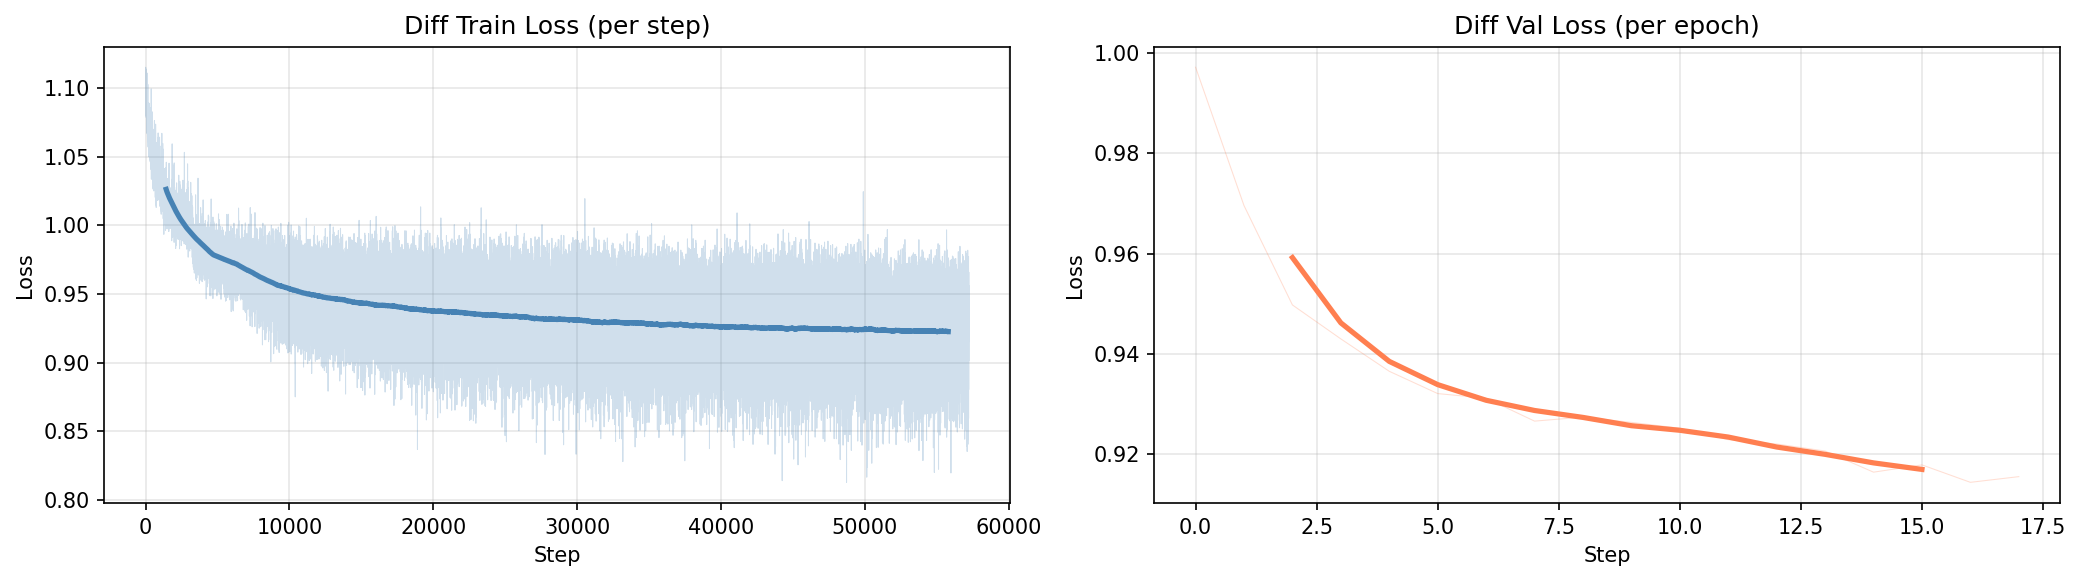
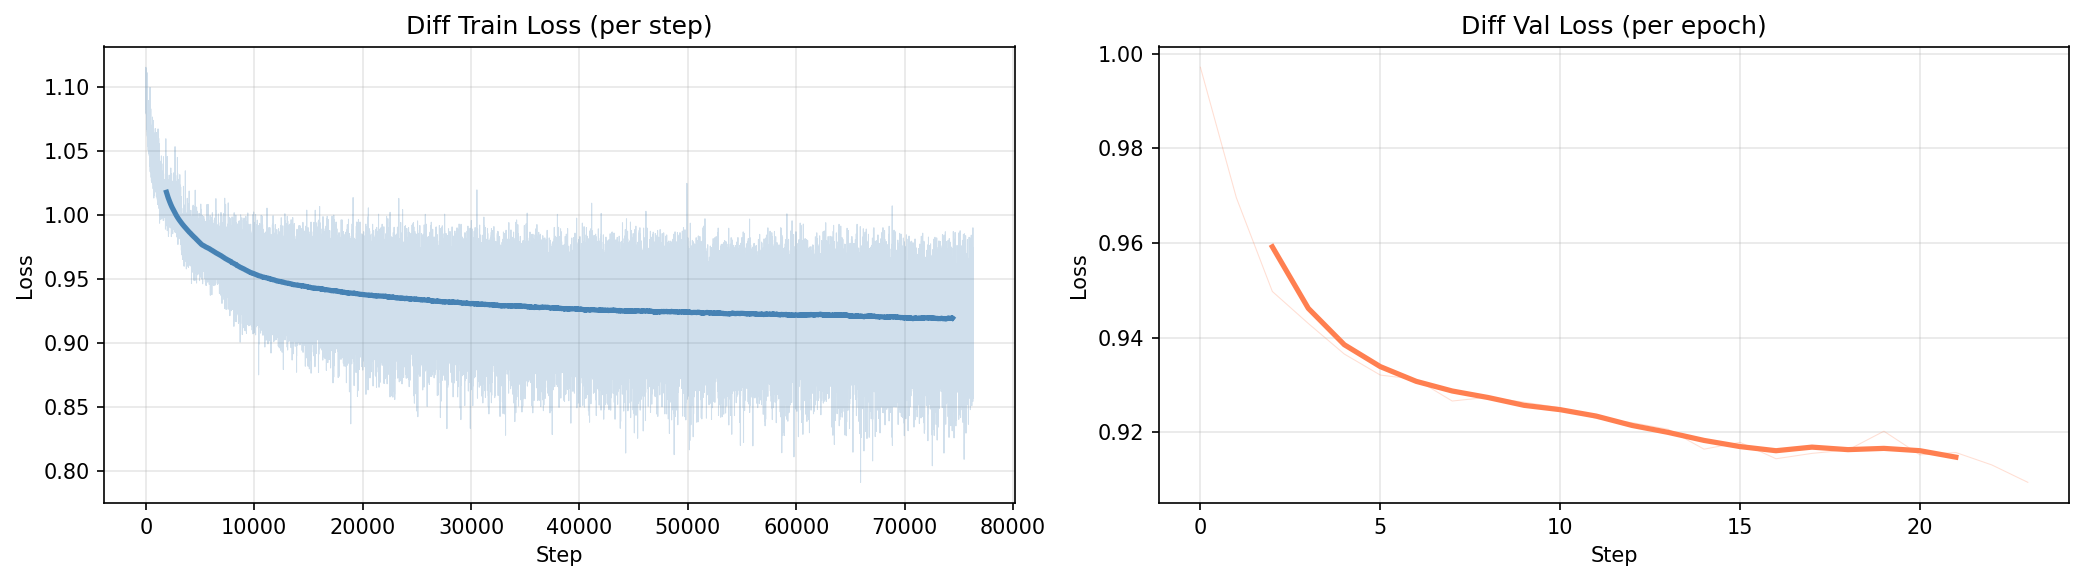
Add publishable points documentation and latest training plots

diff --git a/docs/PUBLISHABLE_POINTS.md b/docs/PUBLISHABLE_POINTS.md
@@ -1,0 +1,226 @@
+# Publishable Points: Latent CorrDiff for Atmospheric Downscaling
+
+## Core Innovation
+
+This work introduces **Latent CorrDiff** — the first model to combine CorrDiff's residual corrective decomposition (Mardani et al. 2025) with latent diffusion (Rombach et al. 2022) for atmospheric downscaling. The model performs ERA5 (0.25deg, ~27km) to CONUS404 (4km) downscaling over the contiguous United States using a fully learned three-stage pipeline with no physics-based model in the loop.
+
+The key idea: rather than running an expensive diffusion process in full pixel space (256x256 or larger), we compress the DRN residual field into a 64x64 latent space via a VAE, then run the diffusion model in that compressed space. This retains the variance reduction benefit of residual learning (CorrDiff) while adding the compute efficiency of latent-space generation (LDM).
+
+---
+
+## Detailed Comparison with Prior Work
+
+### vs. CorrDiff (Mardani et al., Communications Earth & Environment, 2025)
+
+CorrDiff introduced the two-step corrective decomposition x = E[x|y] + r, where a UNet regression model predicts the conditional mean and a diffusion model generates the stochastic residual. Our model preserves this decomposition but makes three key changes:
+
+1. **Latent-space diffusion instead of pixel-space diffusion.** CorrDiff runs its EDM diffusion model on 448x448 pixel-space residuals. We insert a VAE between the regression and diffusion stages, compressing residuals from 256x256 to 64x64 latent codes. The diffusion model then operates entirely in this latent space. This reduces the spatial dimensionality by 16x per denoising step (64x64 = 4,096 vs 448x448 = 200,704 spatial positions). The variance reduction property of the residual decomposition (var(r) <= var(x), proven by Mardani et al.) is preserved — the VAE simply provides a more compact representation of r.
+
+2. **Domain scale.** CorrDiff covers Taiwan (~36x448 input to 448x448 output, 2km resolution). We cover the contiguous United States (1015x1367 full grid, 4km resolution), a domain roughly 50x larger in area. Our patch-based training (256x256 patches from 87 valid land origins) enables scaling to this domain while maintaining training efficiency.
+
+3. **Data regime.** CorrDiff trains on 3 years (2018-2020) of CWA Taiwan WRF data. We train on 35 years (1980-2014) of CONUS404 data (WRF dynamical downscaling of ERA5 by NCAR), with 3 years validation (2015-2017) and 3 years test (2018-2020). The longer training period provides more diverse weather conditions and seasonal cycles.
+
+**What we keep from CorrDiff:**
+- EDM (Elucidated Diffusion Model) noise schedule with variance-exploding formulation
+- Karras et al. (2022) preconditioning (c_skip, c_out, c_in, c_noise)
+- Heun's 2nd-order ODE sampler for inference
+- Classifier-free guidance (p_uncond=0.1 training, g=0.2 inference)
+- UNet backbone with FiLM time conditioning
+- Concatenation-based spatial conditioning
+
+### vs. R2-D2 (Lopez-Gomez et al., PNAS, 2025)
+
+R2-D2 uses a two-stage dynamical-generative framework where WRF first downscales ESM output from ~100km to 45km, then a diffusion model refines from 45km to 9km. Our approach differs in three fundamental ways:
+
+1. **Fully learned pipeline — no physics model required.** R2-D2's first stage is a full WRF simulation at 45km resolution, which still requires substantial compute and physics-based infrastructure. We replace this entirely with a learned DRN (Deterministic Regression Network), making the full pipeline trainable end-to-end with standard deep learning tools. This eliminates the need for WRF expertise, configuration, and compute for the coarse-resolution stage.
+
+2. **Latent-space diffusion.** R2-D2 runs its diffusion model in pixel space (340x270 spatial grid, ~180M parameters). We compress to 64x64 latent space before diffusion. While R2-D2's pixel grid is smaller than CorrDiff's, the latent approach still provides significant compute savings per denoising step.
+
+3. **Single-source training with higher target resolution.** R2-D2 trains on WRF downscaling of a single CMIP6 model (CanESM5) at 9km resolution and demonstrates generalization to 7 other ESMs. We train on CONUS404 (WRF downscaling of ERA5) at 4km resolution. While we do not yet demonstrate multi-ESM generalization, our higher target resolution captures finer-scale features.
+
+**What R2-D2 does that we don't (yet):**
+- Multi-ESM generalization testing
+- End-of-century climate projection evaluation
+- 32-member ensemble CRPS evaluation across multiple ESMs
+- Compound extreme event case studies (Santa Ana winds)
+
+### vs. Latent Diffusion Models (Rombach et al., CVPR 2022)
+
+LDM introduced the idea of training diffusion models in the latent space of a pretrained autoencoder, achieving near-optimal balance between complexity reduction and detail preservation for image synthesis. We adapt this framework to atmospheric fields with several domain-specific modifications:
+
+1. **Residual compression instead of direct compression.** LDM compresses raw images via a VQGAN/KL-regularized autoencoder. We compress DRN *residuals* (CONUS404 - DRN prediction), not raw atmospheric fields. This is critical because:
+   - Residuals have lower variance than raw fields (by CorrDiff's variance reduction theorem)
+   - The large-scale spatial structure is already captured by the DRN mean prediction
+   - The VAE only needs to represent the stochastic fine-scale variability
+   - This makes the latent space more compact and the diffusion task easier
+
+2. **Concatenation conditioning instead of cross-attention.** LDM uses cross-attention for flexible multi-modal conditioning (text, semantic maps). For atmospheric downscaling, all conditions are spatially aligned (ERA5 on the same grid), so we use direct concatenation at the UNet input — simpler and more parameter-efficient for this use case.
+
+3. **Compression ratio.** We use LDM-4 style compression (4x spatial downsampling: 256x256 -> 64x64), which Rombach et al. identified as near-optimal for balancing efficiency and fidelity. More aggressive compression (LDM-8, LDM-16) risks losing fine-scale atmospheric detail.
+
+4. **KL-regularized VAE with beta annealing.** We use KL divergence regularization with beta annealed from 0 to 1e-3 over 30% of training, following Rombach et al.'s finding that very light regularization preserves reconstruction quality while preventing arbitrarily high-variance latent spaces.
+
+### vs. AI-based LAM (Sha et al., arXiv 2026)
+
+Sha et al. develop a Swin-Transformer-based Limited Area Model for autoregressive dynamical downscaling — a fundamentally different approach:
+
+1. **Single-shot vs. autoregressive.** Sha et al.'s LAM iterates hourly, taking its own previous output as input (like a weather model). We perform single-shot downscaling — one forward pass produces the downscaled field for a given time step. This means we don't accumulate errors over time but also don't capture temporal dynamics.
+
+2. **Deterministic vs. probabilistic.** The LAM is deterministic — ensemble diversity comes only from different boundary forcings. Our diffusion model is inherently probabilistic — each forward pass through the diffusion sampler produces a different realization, enabling ensemble generation from a single input.
+
+3. **Architecture.** They use Swin-Transformer (windowed self-attention) with 36 stacks and 1280-dimensional tensors. We use a standard UNet backbone (~142M parameters for diffusion, ~7M for DRN, ~12M for VAE).
+
+4. **Post-processing.** Sha et al. use a separate U-Net to derive diagnostic variables (precipitation, soil moisture, OLR) from prognostic LAM output. We include all target variables in the same pipeline.
+
+**What Sha et al. do that we don't:**
+- Multi-year continuous integration stability testing
+- Boundary forcing generalization (ERA5, GDAS/FNL, CESM)
+- Future climate downscaling (SSP370)
+- Ensemble spread preservation analysis
+- Hurricane/extratropical cyclone case studies
+
+---
+
+## Architecture Summary
+
+```
+ERA5 (0.25deg) --[bilinear regrid]--> ERA5* (4km, 1015x1367)
+                                         |
+                                         v
+                    Stage 1: DRN (7M params)
+                    mu = E[CONUS404 | ERA5*]         # conditional mean
+                                         |
+                    residual = CONUS404 - mu
+                                         |
+                                         v
+                    Stage 2a: VAE Encoder (12M params)
+                    z = encode(residual)              # (B, 8, 64, 64)
+                                         |
+                                         v
+                    Stage 2b: Latent Diffusion (142M params)
+                    z_sample ~ p(z | ERA5*, mu)       # conditioned denoising
+                                         |
+                                         v
+                    Stage 2a: VAE Decoder
+                    r_hat = decode(z_sample)           # reconstructed residual
+                                         |
+                                         v
+                    output = mu + r_hat                # final prediction
+```
+
+**Total parameters:** ~161M (7M DRN + 12M VAE + 142M Diffusion)
+
+**Diffusion conditioning (concatenated):**
+- z_noisy: (B, 8, 64, 64) — noisy latent code
+- ERA5_down: (B, 12, 64, 64) — ERA5 + static fields bilinear-downsampled to latent resolution
+- mu_encoded: (B, 8, 64, 64) — VAE.encode(DRN prediction).mu
+- pos_embed: (B, 2, 64, 64) — normalized (y, x) coordinate grids
+- Total input: (B, 30, 64, 64)
+
+---
+
+## Current Results (Single-Variable: 2m Temperature)
+
+### Training Convergence
+| Stage | Epochs to Converge | Best Loss | Parameters |
+|-------|-------------------|-----------|------------|
+| DRN | ~4 | 0.0157 (val MSE) | 7M |
+| VAE | ~15 | 0.000862 (val recon) | 12M |
+| Diffusion | 21+ (ongoing) | 0.916 (val) | 142M |
+
+### Downscaling Skill Progression (Normalized RMSE)
+| Configuration | RMSE | vs. DRN Alone |
+|--------------|------|---------------|
+| DRN only | 0.118 | baseline |
+| DRN + Diffusion (epoch 1) | 0.246 | -108% (worse) |
+| DRN + Diffusion (epoch 9) | 0.085 | +28% better |
+| DRN + Diffusion (epoch 12) | 0.083 | +30% better |
+| DRN + Diffusion (epoch 18) | 0.070 | **+41% better** |
+
+The diffusion model initially makes predictions worse (adding noise rather than correcting it), then progressively learns to generate residuals that improve upon the DRN mean — matching CorrDiff's reported behavior.
+
+### Physical-Unit Performance
+- DRN RMSE: 1.0-3.8 K (comparable to Sha et al.'s 1.0-3.0 K for 2m temperature)
+- DRN+VAE reconstruction: 0.20-0.60 K RMSE
+- DRN+Diffusion: improving, currently at ~41% reduction over DRN alone
+
+---
+
+## Publishability Assessment
+
+### Strong Points (Publication-Ready)
+1. **Novel combination** — No prior work combines CorrDiff residual decomposition with latent diffusion for atmospheric downscaling. This is a clear methodological contribution.
+2. **Compute efficiency argument** — 16x spatial reduction in diffusion operations is a concrete, quantifiable advantage over pixel-space approaches.
+3. **Working three-stage pipeline** — All stages train successfully and the diffusion model demonstrably improves upon the deterministic baseline.
+4. **Large domain** — CONUS-scale 4km downscaling is more ambitious than Taiwan-scale (CorrDiff) or Western-US 9km (R2-D2).
+5. **40-year training dataset** — CONUS404 provides a rich, validated training source.
+
+### Planned Additions for Full Publication
+1. **Multi-variable support (7 variables)** — T2, TD2, U10, V10, PSFC, PREC_ACC_NC, plus Q2 as a synthesis variable (no direct ERA5 counterpart, analogous to CorrDiff's radar reflectivity synthesis).
+2. **32-member ensemble evaluation** — CRPS, rank histograms, spread-skill ratio, Q-Q plots across all variables.
+3. **Power spectra analysis** — Radially averaged FFT with Hann windowing, comparing ERA5 interpolation vs. DRN vs. DRN+Diffusion vs. CONUS404 target at each stage.
+4. **Ablation study** — Pixel-space CorrDiff variant (remove VAE, run diffusion on 256x256) to quantify the latent-space advantage in terms of compute, convergence speed, and sample quality.
+5. **Q2 synthesis assessment** — Specific humidity predicted without direct ERA5 input, testing the model's ability to learn cross-variable physical relationships.
+6. **Case studies** — Selected extreme events from the 2018-2020 test period.
+7. **Full-CONUS inference** — Tiled prediction over the complete 1015x1367 domain with overlap blending.
+
+---
+
+## How to Run
+
+### Prerequisites
+- Data: ERA5 and CONUS404 .nc files symlinked in `data/` (1980-2020)
+- Hardware: NVIDIA A100 GPU (SLURM gpu_a100 partition, alla100 QOS, 12h max)
+- Environment: PyTorch, xarray, xESMF, numpy, matplotlib
+
+### Build Cache (One-Time)
+```bash
+python -m src.preprocessing.cache_builder --all
+# Or parallel via SLURM: sbatch scripts/run_preprocess.sh
+```
+Produces: `cached_data/era5_{year}.npy`, `conus_{year}.npy`, `static_fields.npy`, `nan_days.json`
+
+### Verify Preprocessing
+```bash
+python scripts/verify_preprocessing.py --plot     # cache vs raw .nc comparison plots
+python scripts/verify_normalization.py             # normalization stats + histograms
+python -m src.preprocessing.verify_cache           # integrity, spot-checks, correlations
+```
+
+### Train
+```bash
+# All three stages sequentially (~12h on A100):
+python train.py --stage all --data_dir data --cache_dir cached_data
+
+# Or individually:
+python train.py --stage drn        # Stage 1: ~1h
+python train.py --stage vae        # Stage 2a: ~2h
+python train.py --stage diffusion  # Stage 2b: ~8h+
+```
+
+### Inference
+```bash
+python -m src.inference.sample_nc --input era5_input.nc --output downscaled.nc
+```
+
+### Evaluation
+```bash
+sbatch scripts/run_evaluation.sh
+```
+
+### Checkpoints
+Stored on HuggingFace: [mudhil/diffusion-downscaling-model](https://huggingface.co/mudhil/diffusion-downscaling-model)
+- `drn_best.pt` (568 MB)
+- `vae_best.pt` (454 MB)
+- `diffusion_best.pt` (2.2 GB)
+- `diffusion_latest.pt` (2.2 GB)
+
+---
+
+## Key Citations
+
+1. Mardani, M. et al. (2025). Residual Corrective Diffusion Modeling for km-Scale Atmospheric Downscaling. *Communications Earth & Environment*, 6:124.
+2. Lopez-Gomez, I. et al. (2025). Dynamical-Generative Downscaling of Climate Model Ensembles. *PNAS*, 122(17).
+3. Rombach, R. et al. (2022). High-Resolution Image Synthesis with Latent Diffusion Models. *CVPR 2022*.
+4. Sha, Y. et al. (2026). AI-Based Regional Emulation for Kilometer-Scale Dynamical Downscaling. *arXiv:2602.18646v2*.
+5. Karras, T. et al. (2022). Elucidating the Design Space of Diffusion-Based Generative Models. *NeurIPS 2022*.
